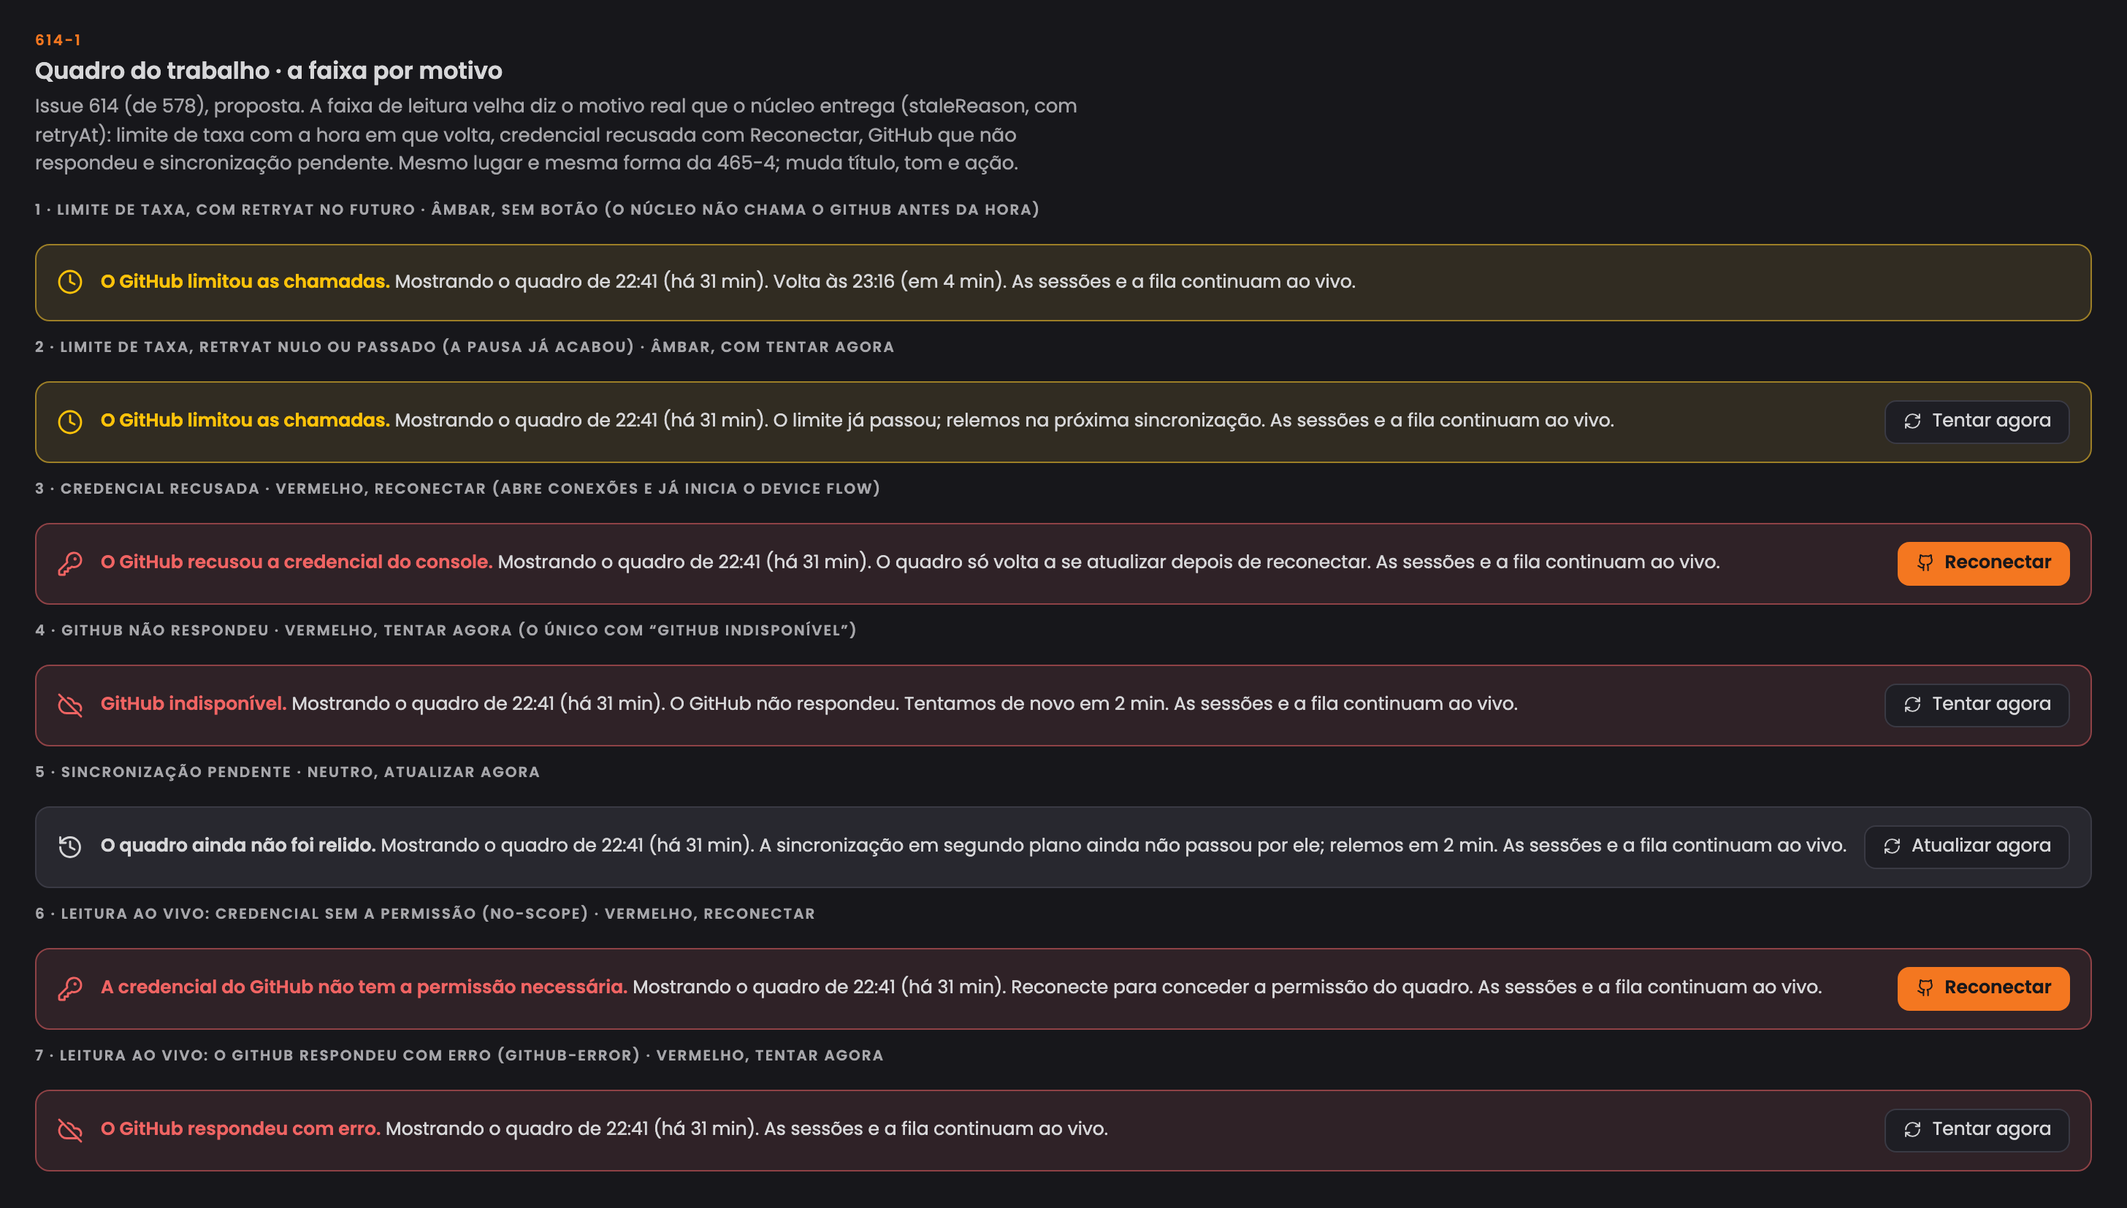
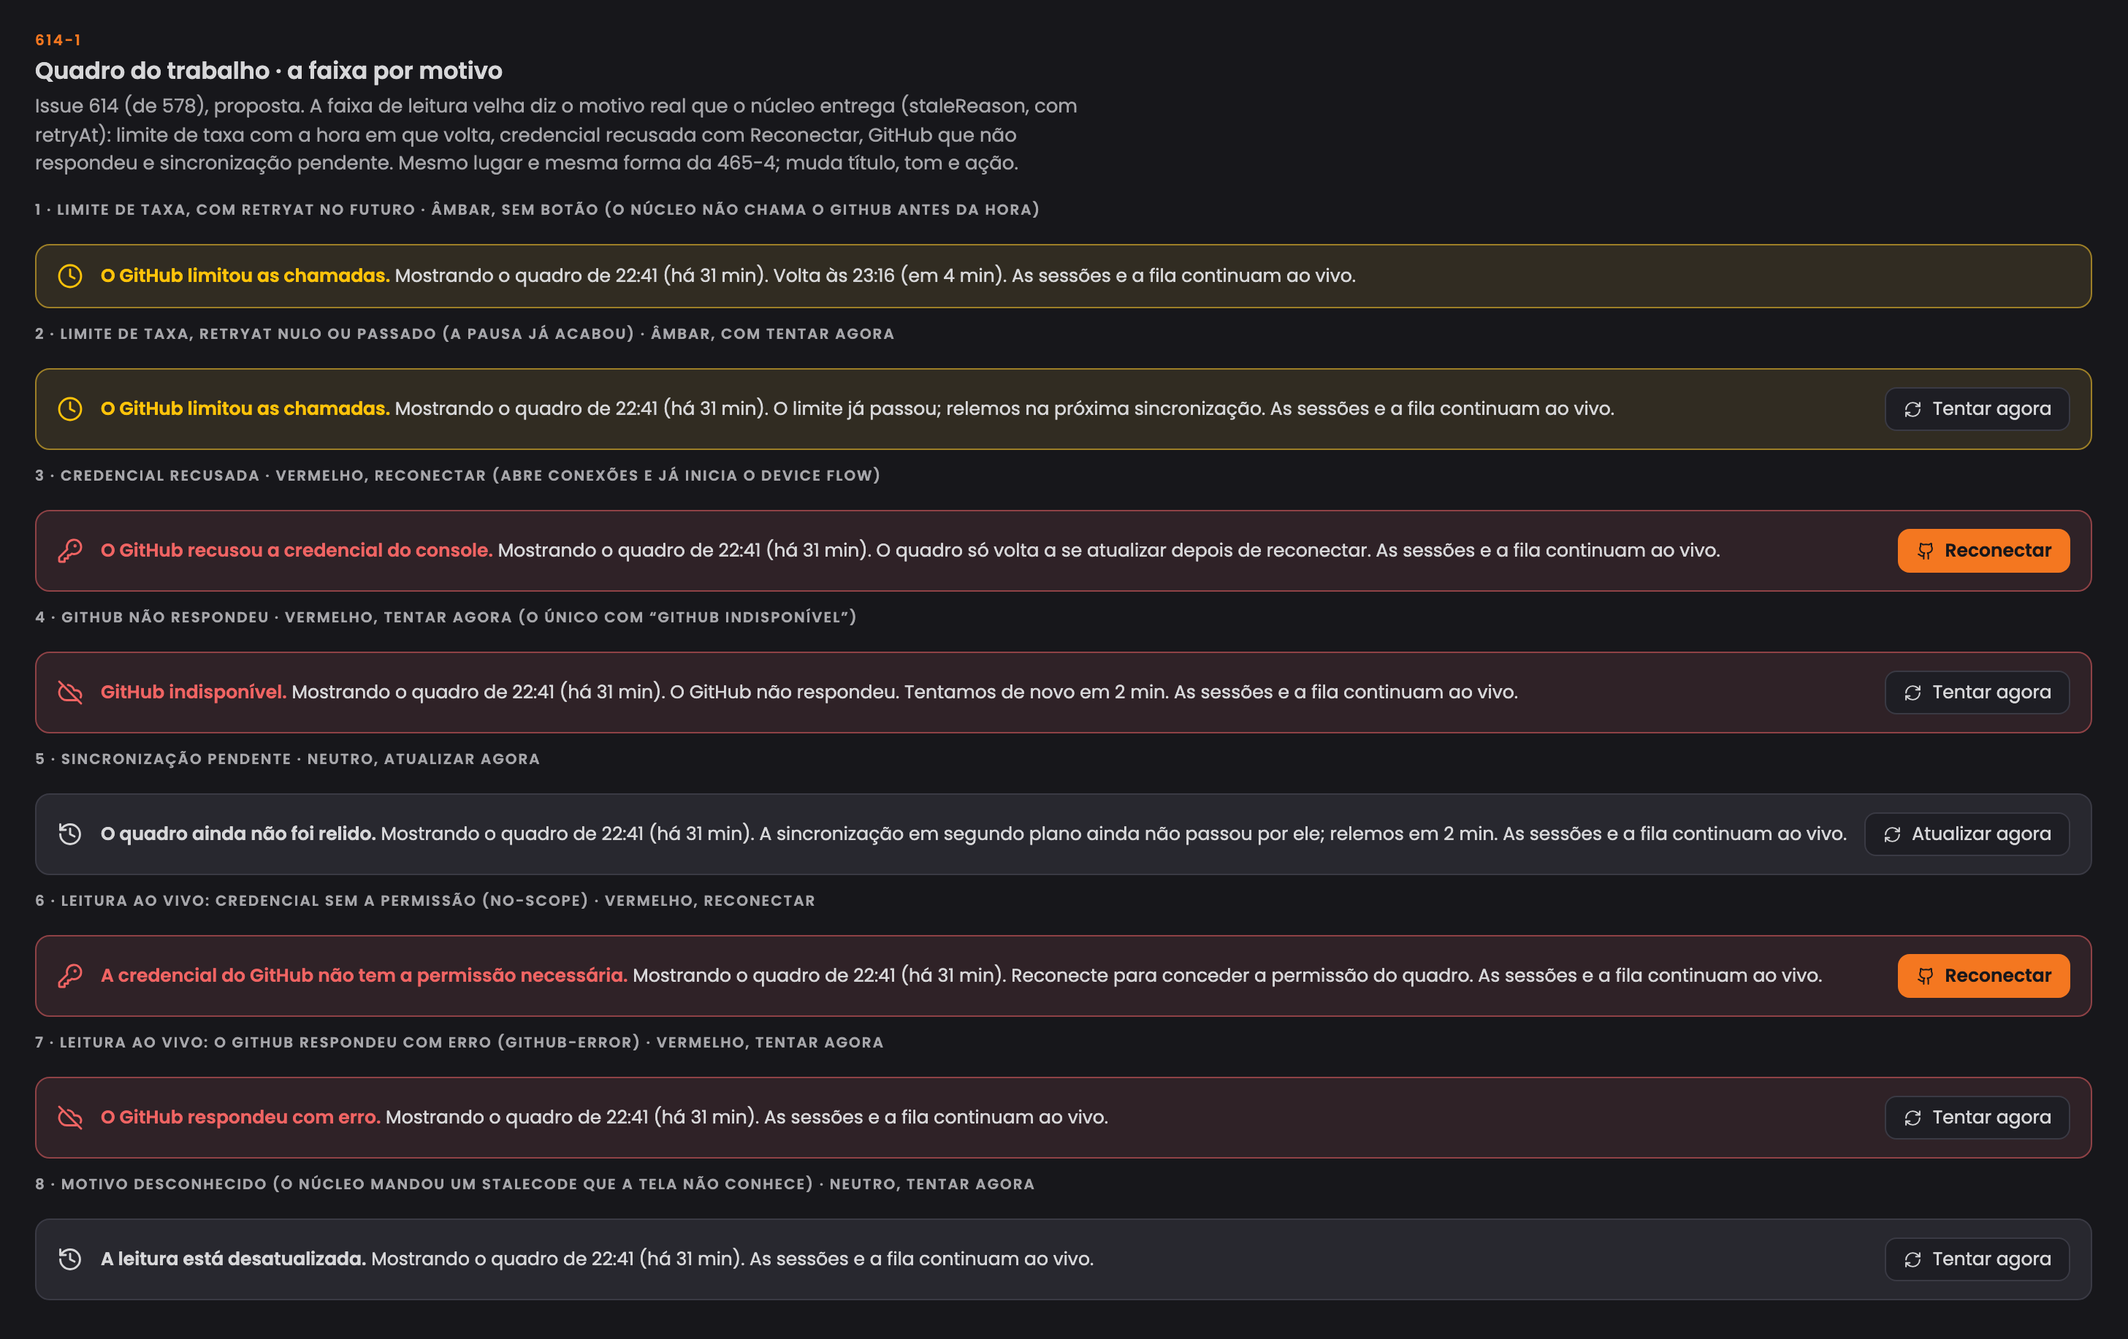
docs(wireframes): draw the unknown-reason stale band on the board and the issue panel (#614)

diff --git a/docs/wireframes/index.html b/docs/wireframes/index.html
@@ -5488,6 +5488,9 @@ const TELAS = [
   { id: 'work-board-stale-reasons', cod: '614-2', nome: 'Quadro do trabalho · faixa por motivo na tela', sub: 'Issue 614, proposta. A credencial recusada e o limite de taxa na tela inteira, em 1100 e 1440; o que vem do GitHub segue desbotado.',
     html: () => wbReasonsHtml(),
     n: N(['Nada.'], ['Decisão 0001 segue: o quadro guarda a última leitura boa.']) },
+  { id: 'work-board-stale-panel-unknown', cod: '614-3', nome: 'Quadro do trabalho · faixa de motivo desconhecido no painel da issue', sub: 'Issue 614, proposta a aprovar. Quando o núcleo manda um motivo que a tela não conhece, a faixa fica neutra, diz “A leitura está desatualizada.” e oferece Tentar agora, sem afirmar nada sobre o GitHub. No painel da issue ela abre o painel, antes do título, e diz “Mostrando a issue de 22:41” em vez de “o quadro”. A versão do quadro é a 8 de 614-1.',
+    html: () => wbPanelUnknownHtml(),
+    n: N(['Nada.'], ['Mesmo lugar e forma da faixa do painel nos outros motivos: abaixo do cabeçalho, acima do título. O código real mantém “As sessões e a fila continuam ao vivo.” no painel; só o “o quadro” vira “a issue”.']) },
   { id: 'work-board-loading', cod: '465-5', nome: 'Quadro do trabalho · carregando', sub: 'Issue #465. Na primeira abertura, enquanto o GitHub é lido: as seis colunas com cards de esqueleto, os contadores em “…”, filtros desligados e Atualizar ocupado. Nas leituras seguintes o quadro fica e só o Atualizar gira. Em 1100 e 1440.',
     html: () => wbBoth(wbLoadingScreen),
     n: N(['O esqueleto do C19.'], ['O esqueleto tem a altura de um card curto, para o quadro não pular quando os dados chegam.']) },
@@ -6502,9 +6505,13 @@ const WB_REASON_BANDS = [
   ['5 · Sincronização pendente · neutro, Atualizar agora', wbBand('neutral', 'history', 'O quadro ainda não foi relido.', `${WB_FROM} A sincronização em segundo plano ainda não passou por ele; relemos em 2 min. ${WB_LIVE}`, `<span class="btn contorno">${ic('refresh-cw')}Atualizar agora</span>`)],
   ['6 · Leitura ao vivo: credencial sem a permissão (no-scope) · vermelho, Reconectar', wbBand('error', 'key-round', 'A credencial do GitHub não tem a permissão necessária.', `${WB_FROM} Reconecte para conceder a permissão do quadro. ${WB_LIVE}`, `<span class="btn cheio">${ic('github')}Reconectar</span>`)],
   ['7 · Leitura ao vivo: o GitHub respondeu com erro (github-error) · vermelho, Tentar agora', wbBand('error', 'cloud-off', 'O GitHub respondeu com erro.', `${WB_FROM} ${WB_LIVE}`, WB_RETRY)],
+  ['8 · Motivo desconhecido (o núcleo mandou um staleCode que a tela não conhece) · neutro, Tentar agora', wbBand('neutral', 'history', 'A leitura está desatualizada.', `${WB_FROM} ${WB_LIVE}`, WB_RETRY)],
 ]
 const wbReasonScreen = band => w => `${wbHead({ read: WB_READ_OLD })}${band}${wbLevels('item')}${wbFilters()}<div class="wb-stale">${wbBoard(w, wbCols(), WB_MAIN)}</div>`
 const wbReasonBandsHtml = () => `<div style="display:flex;flex-direction:column;gap:10px">${WB_REASON_BANDS.map(([t, b]) => `<div class="rotulo">${t}</div>${b}`).join('')}</div>`
+// 614-3 · the same unknown-reason band in the issue panel: the panel says "a issue" where the board says "o quadro", and keeps the live line.
+const WB_PANEL_UNKNOWN = wbBand('neutral', 'history', 'A leitura está desatualizada.', 'Mostrando a issue de 22:41 (há 31 min). As sessões e a fila continuam ao vivo.', WB_RETRY)
+const wbPanelUnknownHtml = () => wbRows([['#506 com a faixa de motivo desconhecido no topo do painel, antes do título', wbDetailScreen(wbItem(506), 'read', WB_PANEL_UNKNOWN)]])
 const wbReasonsHtml = () => wbRows([['Credencial recusada, na tela inteira', wbReasonScreen(WB_REASON_BANDS[2][1])], ['Limite de taxa, na tela inteira', wbReasonScreen(WB_REASON_BANDS[0][1])]])
 
 // 465-5 · loading (first open; later reads keep the board and only spin Atualizar).
@@ -6638,7 +6645,7 @@ const wbComments = edit => `<div class="wb-comment"><span class="wb-av">VC</span
   <div class="wb-comment"><span class="wb-av">AE</span><span><b>ana-exemplo</b> <small>· há 20 h</small><br>O passo 4 pode ficar para depois do primeiro PR.</span></div>
   ${edit ? `<div class="wb-textarea wb-ph">Escreva um comentário (Markdown)…</div><div class="wb-row" style="justify-content:flex-end"><span class="btn contorno">${ic('message-square')}Comentar</span></div>` : `<div class="wb-input wb-ph">Comentar…</div>`}`
 const wbStepsRead = (steps, done = false) => `<ol class="wb-steps">${steps.map(([n, t], i) => `<li${done ? ' class="wb-done"' : ''}><span class="wb-sn">${i + 1}</span><span class="trunc">${t}</span><span class="wb-st"><span class="mono">#${n}</span>${ic(done ? 'check-circle-2' : 'circle')}</span></li>`).join('')}</ol>`
-function wbDetailRead(c) {
+function wbDetailRead(c, band = '') {
   const col = WB_COLUMNS.find(([k]) => k === c.col)
   const acts = c.n === 506 ? `<div class="wb-dacts">${wbAct('play', 'Executar plano', true)}${wbAct('list-plus', 'Pôr na fila')}${wbAct('sparkles', 'Replanejar')}</div>`
     : c.n === 509 ? `<div class="wb-dacts">${wbAct('sparkles', 'Planejar', true)}</div>` : ''
@@ -6652,6 +6659,7 @@ Visto:    Concluído · 38</pre></div>`,
     : c.n === 497 ? ['Plano · 3 passos, todos fechados', wbStepsRead(WB_STEPS_497, true)]
     : ['Plano', `<div class="wb-pr"><span class="c-muted">Sem plano ainda. Planejar abre uma sessão da Athena só de planejamento, que lê a issue e o código e escreve os passos aqui como sub-issues do tipo Plan. Ela não escreve código.</span></div>`]
   return `<div class="wb-dhead"><b style="color:${WB_TYPES[c.t][1]};font-size:12px">${WB_TYPES[c.t][0]}</b><span class="c-muted mono" style="font-size:12px">#${c.n}</span><span class="badge b-abandoned"><span class="p"></span>${col[1]} · ${c.age}</span><span style="margin-left:auto"></span><span class="btn contorno">${ic('pencil')}Editar</span><span class="btn contorno" title="Abrir no GitHub">${ic('external-link')}</span><span class="wb-x">${ic('x')}</span></div>
+    ${band}
     <h5>${c.title}</h5>
     <div class="wb-chain">#1 Console como cockpit › #6 Quadro do trabalho › <b>#${c.n}</b></div>
     ${acts}
@@ -6690,10 +6698,10 @@ dentro do Console, **para** não sair para o GitHub.
     <div class="wb-sec"><div class="olhinho">Comentários · 2</div>${wbComments(true)}</div>`
 }
 // The detail is a panel at the right of the board, which stays behind under a scrim.
-const wbDetailScreen = (c, mode = 'read') => w => {
+const wbDetailScreen = (c, mode = 'read', band = '') => w => {
   const width = mode === 'read' ? (w >= 1440 ? 480 : 440) : (w >= 1440 ? 580 : 520)
   const cols = WB_COLUMNS.reduce((acc, [k]) => ({ ...acc, [k]: WB_ITEMS.filter(x => x.col === k).map(x => wbCard(x, { sel: x.n === c.n })) }), {})
-  return `${wbHead()}${wbLevels('item')}${wbFilters()}<div class="wb-stage">${wbBoard(w, cols, WB_MAIN)}<div class="wb-scrim"></div><aside class="cartao wb-drawer" style="width:${width}px">${mode === 'read' ? wbDetailRead(c) : wbDetailEdit(c, mode)}</aside></div>`
+  return `${wbHead()}${wbLevels('item')}${wbFilters()}<div class="wb-stage">${wbBoard(w, cols, WB_MAIN)}<div class="wb-scrim"></div><aside class="cartao wb-drawer" style="width:${width}px">${mode === 'read' ? wbDetailRead(c, band) : wbDetailEdit(c, mode)}</aside></div>`
 }
 const wbDetailHtml = () => wbRows([['#509 em Planejamento, sem plano: Planejar', wbDetailScreen(wbItem(509))], ['#506 em Planejamento, com plano: Executar plano, Pôr na fila e Replanejar', wbDetailScreen(wbItem(506))], ['#497 em Em review: o plano fechado e o PR com CI e review', wbDetailScreen(wbItem(497))]])
 

diff --git a/docs/wireframes/README.md b/docs/wireframes/README.md
@@ -14,7 +14,7 @@ A versão do núcleo remoto e o comando de atualização (449-1 a 449-5, issue #
 
 O botão Atualizar o núcleo remoto (462-1 a 462-6, issue #462, decisão [0022](../decisoes/0022-remote-core-update-button.md), proposta): o botão na faixa de defasado, a confirmação que já traz o resultado do `--check`, o andamento em cinco passos, as recusas em que nada foi parado (saídas 20 a 23 e 30 a 33), o que a tela diz depois da troca (sucesso, falhou e voltou, falhou e a volta falhou com o caminho do backup, contato perdido, SSH) e o estado de falta configurar, com o bloco `connection.update` pronto e o card de copiar da 0021 como saída. As capturas desta camada ainda não foram geradas.
 
-O Quadro do trabalho (465-1 a 465-6, 466-1 a 466-3, 467-1, 477-1, 477-2, 478-1 a 478-3 e 598-1 a 598-4, issues #465, #466, #467, #468, #477, #478 e #598, épico #464; a fila de execução, 477-1 e 477-2, está aprovada por Fernando (PR #475), as várias organizações, 598-1 a 598-4 (com a organização lida antes que falha agora, os cards esmaecidos e a hora da leitura na faixa, no 598-3), aprovadas por Fernando em 14/11/2026, a faixa de leitura velha por motivo, 614-1 e 614-2, aprovada pelo design owner, e as demais telas seguem a aprovar), numa seção própria no fim: as seis colunas do ciclo do agente (Planejamento, Na fila, Em execução, Em review, Bloqueado, Concluído), calculadas da sessão de execução, do PR com CI e review, do estado, do plano e da fila do Console, com o Status do Project como dado (465-1); a anatomia do card com cada parte numerada e as ações estado por estado: Planejar, “planejando…”, “plano · N passos” com Executar plano, Pôr na fila e Replanejar, Abrir sessão, e o épico sem ações (465-2); o projeto sem issue (465-3); o GitHub fora pela decisão 0001 (465-4); a faixa de leitura velha com o motivo real que o núcleo entrega: limite de taxa com a hora em que volta e sem botão, ou com Tentar agora quando a pausa já acabou, credencial recusada e sem permissão com Reconectar, GitHub que não respondeu e erro do GitHub com Tentar agora, e sincronização pendente com Atualizar agora, as sete faixas juntas em 614-1 (`work-board-stale-bands`) e a credencial recusada e o limite na tela inteira em 614-2 (`work-board-stale-reasons`), com “GitHub indisponível.” só quando o GitHub não respondeu e sem o “Motivo: …” no fim; carregando (465-5); e Planejar e Executar plano, com a confirmação no card, o card que vai direto para Em execução com “subindo…”, o planejamento que falhou, o limite cheio e a pasta que falta (465-6). Por cima, a troca de nível e descer para os filhos (466-1), os seis filtros juntos por E, com chips, Limpar filtros, o link em inglês (`/ui/work?level=…&initiative=…&epic=…&type=…&label=…&repo=…&status=…`) e o Tipo aberto fora da moldura (466-2), e o filtro sem resultado (466-3). O detalhe da issue aberto pelo card, num painel à direita, sem plano, com plano e em review (467-1). A fila de execução, com a posição, o limite (“2 de 2 rodando”) e a fila parada por uma sessão que não subiu (477-1), e o arrasto: pôr na fila, reordenar, a recusa sem plano (“Planeje antes”) e a recusa das colunas de fato (477-2). Editar a issue e o plano no painel (478-1), o conflito com uma mudança feita no GitHub (478-2) e a recusa do GitHub (478-3). Os Projects de todas as organizações concedidas (598-1 a 598-4, aprovados): o cabeçalho que conta organizações e Projects (e, com uma só de cada, nomeia) e a linha de origem em cada card (598-1, `work-board-orgs-header`); os filtros Organização e Project junto dos seis, com chips, Limpar filtros, o link em inglês (`/ui/work?org=…&project=…&…`), os menus abertos e a troca de organização que devolve o Project a Todos (598-2, `work-board-org-filters`); a organização que restringe o app ou cuja leitura falhou como aviso empilhado, com o motivo, Aprovar (dono), Pedir acesso e Tentar de novo, sem derrubar as outras (598-3, `work-board-org-warning`); e carregando, sem issue, sem Project e todas com aviso, sem “Trocar de Project” (598-4, `work-board-orgs-states`). O Kanban do projeto (C11) fica ao lado. Capturas em [capturas/](capturas/) com o id da tela, como `<id>-<largura>-<tema>.png` (por exemplo `work-board-1100-dark.png`, `work-board-drag-1440-light.png`); a anatomia (465-2) não tem largura própria e sai como `work-board-card-<tema>.png`.
+O Quadro do trabalho (465-1 a 465-6, 466-1 a 466-3, 467-1, 477-1, 477-2, 478-1 a 478-3 e 598-1 a 598-4, issues #465, #466, #467, #468, #477, #478 e #598, épico #464; a fila de execução, 477-1 e 477-2, está aprovada por Fernando (PR #475), as várias organizações, 598-1 a 598-4 (com a organização lida antes que falha agora, os cards esmaecidos e a hora da leitura na faixa, no 598-3), aprovadas por Fernando em 14/11/2026, a faixa de leitura velha por motivo, 614-1 e 614-2, aprovada pelo design owner (a oitava faixa de 614-1 e o 614-3 aguardam aprovação), e as demais telas seguem a aprovar), numa seção própria no fim: as seis colunas do ciclo do agente (Planejamento, Na fila, Em execução, Em review, Bloqueado, Concluído), calculadas da sessão de execução, do PR com CI e review, do estado, do plano e da fila do Console, com o Status do Project como dado (465-1); a anatomia do card com cada parte numerada e as ações estado por estado: Planejar, “planejando…”, “plano · N passos” com Executar plano, Pôr na fila e Replanejar, Abrir sessão, e o épico sem ações (465-2); o projeto sem issue (465-3); o GitHub fora pela decisão 0001 (465-4); a faixa de leitura velha com o motivo real que o núcleo entrega: limite de taxa com a hora em que volta e sem botão, ou com Tentar agora quando a pausa já acabou, credencial recusada e sem permissão com Reconectar, GitHub que não respondeu e erro do GitHub com Tentar agora, e sincronização pendente com Atualizar agora, as oito faixas juntas em 614-1 (`work-board-stale-bands`, a oitava é o motivo desconhecido: neutra, “A leitura está desatualizada.”, Tentar agora), a credencial recusada e o limite na tela inteira em 614-2 (`work-board-stale-reasons`) e a faixa de motivo desconhecido no painel da issue em 614-3 (`work-board-stale-panel-unknown`, proposta a aprovar, capturas em 1440), com “GitHub indisponível.” só quando o GitHub não respondeu e sem o “Motivo: …” no fim; carregando (465-5); e Planejar e Executar plano, com a confirmação no card, o card que vai direto para Em execução com “subindo…”, o planejamento que falhou, o limite cheio e a pasta que falta (465-6). Por cima, a troca de nível e descer para os filhos (466-1), os seis filtros juntos por E, com chips, Limpar filtros, o link em inglês (`/ui/work?level=…&initiative=…&epic=…&type=…&label=…&repo=…&status=…`) e o Tipo aberto fora da moldura (466-2), e o filtro sem resultado (466-3). O detalhe da issue aberto pelo card, num painel à direita, sem plano, com plano e em review (467-1). A fila de execução, com a posição, o limite (“2 de 2 rodando”) e a fila parada por uma sessão que não subiu (477-1), e o arrasto: pôr na fila, reordenar, a recusa sem plano (“Planeje antes”) e a recusa das colunas de fato (477-2). Editar a issue e o plano no painel (478-1), o conflito com uma mudança feita no GitHub (478-2) e a recusa do GitHub (478-3). Os Projects de todas as organizações concedidas (598-1 a 598-4, aprovados): o cabeçalho que conta organizações e Projects (e, com uma só de cada, nomeia) e a linha de origem em cada card (598-1, `work-board-orgs-header`); os filtros Organização e Project junto dos seis, com chips, Limpar filtros, o link em inglês (`/ui/work?org=…&project=…&…`), os menus abertos e a troca de organização que devolve o Project a Todos (598-2, `work-board-org-filters`); a organização que restringe o app ou cuja leitura falhou como aviso empilhado, com o motivo, Aprovar (dono), Pedir acesso e Tentar de novo, sem derrubar as outras (598-3, `work-board-org-warning`); e carregando, sem issue, sem Project e todas com aviso, sem “Trocar de Project” (598-4, `work-board-orgs-states`). O Kanban do projeto (C11) fica ao lado. Capturas em [capturas/](capturas/) com o id da tela, como `<id>-<largura>-<tema>.png` (por exemplo `work-board-1100-dark.png`, `work-board-drag-1440-light.png`); a anatomia (465-2) não tem largura própria e sai como `work-board-card-<tema>.png`.
 
 A vista do agente (521-1 a 521-10, issue 521, da issue 518, aprovada por Fernando em 14/11/2026), numa seção própria no fim: cada linha de subagente da aba Agentes vira link e leva a uma vista do agente, com o brief que recebeu, a sequência do que fez (ferramentas e subagentes filhos, aninhados como na aba), duração, custo, estado e o resultado final. Onde mora e o fluxo, com a recomendação de uma rota própria `/ui/sessions/<id>/agents/<agent>` (521-1); a aba Agentes com as linhas links, recuadas pelo `parent` (521-2); o agente concluído, com a anatomia numerada (521-3); o aninhamento fundo e as dobras do brief, da sequência e do resultado (521-4); o agente rodando, sem resultado ainda (521-5); carregando (521-6); sem brief e sem custo, sem zero inventado (521-7); os erros: o agente falhou, a leitura falhou com Tentar de novo e o agente que não existe (521-8); o nó do laço da aba Workflow com uma segunda ação (521-9); e o que a vista pede ao núcleo e ele ainda não serve, G1 a G8, marcado nas telas como “dado novo” (521-10). Capturas em [capturas/](capturas/) como `agent-view-<tela>-<largura>-<tema>.png` (por exemplo `agent-view-finished-1100-dark.png`; `agent-view-flow-<tema>.png` e `agent-view-data-<tema>.png` não têm largura própria).
 
